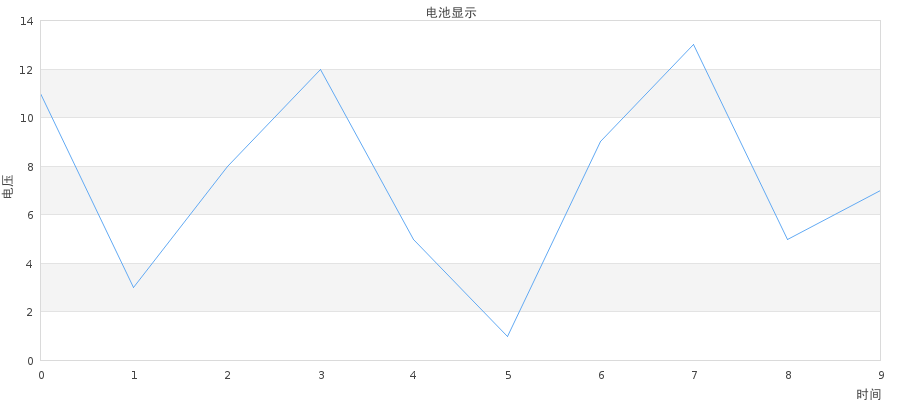
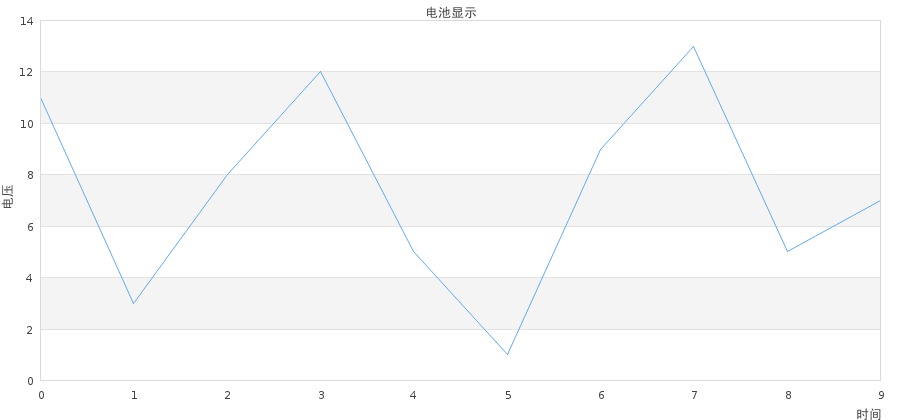
some

diff --git a/static/css/main.css b/static/css/main.css
@@ -6,10 +6,9 @@
     margin: 0 auto;
 }
 .header-item {
-    background-color: #369;
-    height: 40px;
-    line-height: 40px;
-    border-radius: 6px;
+    background-color: #1f4e7c;
+    height: 35px;
+    line-height: 35px;
 }
 .header-item ul {
     padding: 0 0 0 30px;
@@ -20,7 +19,7 @@
     margin: 0 10px;
 }
 .header-item ul li a {
-    padding: 12px 15px;
+    padding: 9px 15px;
     font-weight: bold;
     color: #FFF;
     font-size: 14px;
@@ -28,29 +27,49 @@
     text-decoration: none;
 }
 .header-item ul li a:hover {
-    background-color: #99cccc;
-    color: #000 !important; 
+    background-color: #417bb6;
     text-decoration: none;
 }
 .header-item .search {
+    position: relative;
+    width: 206px;
+    zoom: 1;
     float: right;
-    margin-right: 10px;
+    margin-right: 20px;
 }
 .search form {
     display: inline-block;
 }
 #keyword {
-    width: 160px;
-    height: 25px;
-    box-shadow: none;
+    width: 200px;
+    padding: 4px 3px;
+    border: 0 none;
+    border-radius: 0;
+    height: auto;
+    line-height: 16px;
+}
+#keyword:focus {
+    border: 0 none;
+    border-radius: 0;
     -webkit-box-shadow: none;
     -moz-box-shadow: none;
-    text-indent: 0.5em;
+    box-shadow: none;
 }
 .search input {
     vertical-align: middle;
     border: none;
     margin: 0;
+}
+#query-btn {
+    position: absolute;
+    right: 0;
+    top: 6px;
+    width: 24px;
+    height: 24px;
+    line-height: 0;
+    text-indent: -9999px;
+    background: url('../img/search.png') no-repeat;
+    cursor: pointer;
 }
 .header-top {
     display: inline-block;

diff --git a/static/css/common.css b/static/css/common.css
@@ -3,7 +3,7 @@
  * */
 html,body{
 	font: normal 12px/1.5 Helvetica, Microsoft YaHei, sans-serif; 
-	height:101%;
+    height: 100%;
     color: #666;
 }
 /*reset.css*/
@@ -47,23 +47,16 @@ fieldset legend {
 .clearfix { zoom: 1; }
 .clearfix:after { clear: both; }
 .clearfix:before, .clearfix:after { content: ""; display: table; }
-#footer-push {
-    height: 95px;
-    clear: both;
-}
 #footer{
     text-align:center; 
-    padding: 10px 40px;
+    padding-bottom: 30px;
 }
 #footer p {
 	clear: both;
-    color: #A0A0A0;
-    background: #369;
     padding: 2px;
 }
 #footer a{
     font-size: 14px;
-    color: #fff;
     text-decoration: none;
 }
 input[type=text], input[type=password] {
@@ -92,7 +85,7 @@ input[type=text]:focus, input[type=password]:focus {
 	margin: 10px auto;
 	width: 250px;
 }
-input[type=submit],input[type=reset],input[type=button]{
+input[type=reset],input[type=button]{
     width: 100px;
     margin: 10px 0;
     cursor: pointer;

diff --git a/application/views/common/battery.php b/application/views/common/battery.php
@@ -1,9 +1,3 @@
-<!DOCTYPE html>
-<meta charset="utf-8">
-<head>
-	<title>test</title>
-</head>
-<body>
 <style>
 select {
     display: inline-block;
@@ -23,15 +17,13 @@ select {
     transition: border-color ease-in-out .15s,box-shadow ease-in-out .15s;
 }
 .battery-container {
+   position: relative;
    width: 900px; 
    height: 400px;
    margin: 20px auto;
-   border-left: 1px solid #eee;
-   border-bottom: 1px solid #eee;
-   position: relative;
 }
 .select-arr {
-    margin: 20px 0 20px 50px;
+    margin: 20px 0;
 }
 .select-label {
     margin-left: 5px;
@@ -90,13 +82,16 @@ input.date {
 .y-cord {
 	position: absolute;
 	width: 60px;
-	left: -65px;
+	left: -35px;
 	top: 0;
 }
 .y-item {
 	margin: 0;
 	padding: 0;
 	margin-bottom: 8px;
+}
+.y-item input, .y-item label {
+    cursor: pointer;
 }
 </style>
 <div class="select-arr">
@@ -147,9 +142,8 @@ input.date {
 			<input type="radio" id="SOC" name="yCord" value="SOC"><label for="SOC">SOC</label>
 		</p>
 	</div>
-    <img src="" alt="" id="jpgraph">
+    <img src="<?php echo base_url('jpgraph/1.png');?>" alt="" id="jpgraph">
 </div>
-<script type="text/javascript" src="http://code.jquery.com/jquery-1.10.2.min.js">
 </script>
 <script type="text/javascript">
     $(function() {
@@ -159,5 +153,3 @@ input.date {
 		}, 'json');
     });
 </script>
-</body>
-</html>

diff --git a/application/views/common/header.php b/application/views/common/header.php
@@ -49,12 +49,12 @@
                     <a href="">联系我们</a>
                   </li>
                 </ul>
-                <span class="search">
+                <div class="search">
                     <form action="">
                         <input type="text" name="keyword" id="keyword" placeholder="请输入搜索的关键字">
-                        <input type="submit" />
+                        <input type="submit" id="query-btn">
                     </form>
-                </span>
+                </div>
             </div>
             <!--header-item end!!!-->
         </div>

diff --git a/application/views/common/footer.php b/application/views/common/footer.php
@@ -1,10 +1,10 @@
-        <div id="footer">
-            <p>
-                <a href="javascript:void(0);">Copyright &copy;2013 哈尔滨华凯电能科技有限公司</a>
-            </p>
-        </div>
     </div>
     <!--grid-1004 end!!!-->
+</div>
+<div id="footer" class="grid-1004">
+    <p>
+        <a href="javascript:void(0);">Copyright &copy;2013 哈尔滨华凯电能科技有限公司</a>
+    </p>
 </div>
 <!--wrapper end!!!-->
 </body>

diff --git a/application/views/common/jpgraph.php b/application/views/common/jpgraph.php
@@ -7,7 +7,7 @@ $ydata = array(11,3,8,12,5,1,9,13,5,7);
  
 //设置图像大小
 $width=900;
-$height=400;
+$height=420;
  
 //初始化jpgraph并创建画布
 $graph = new Graph($width,$height);
